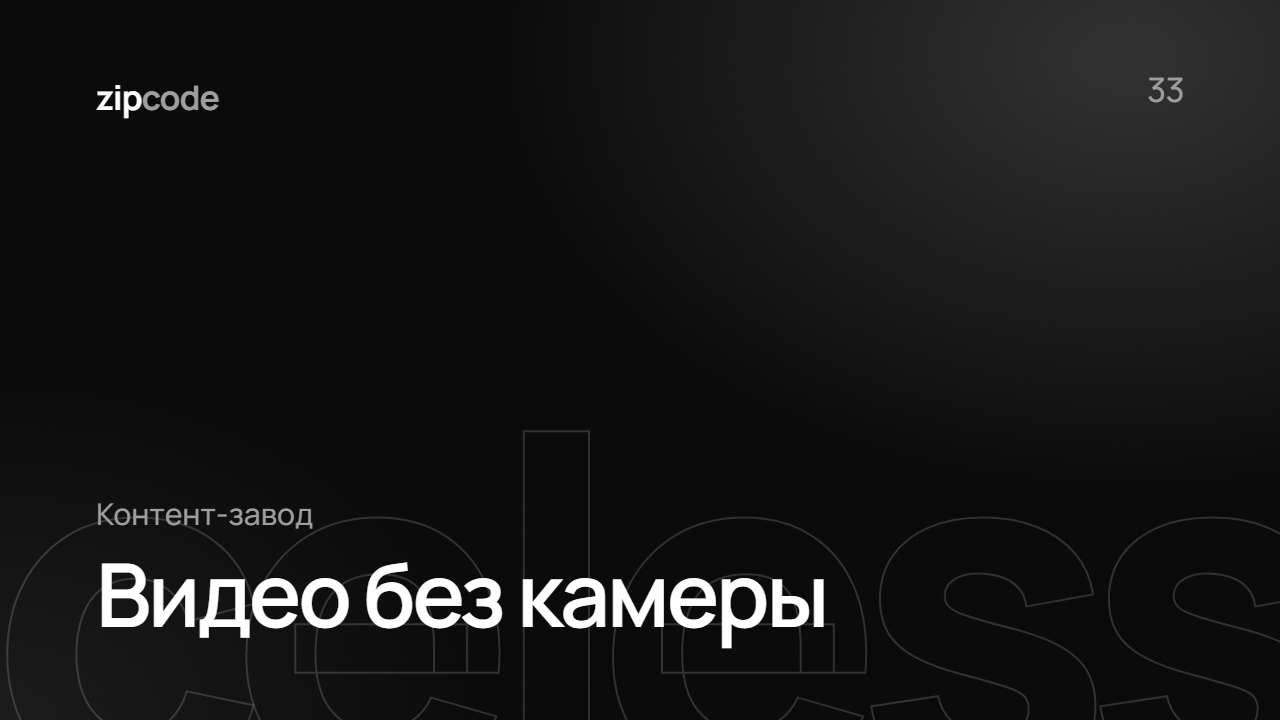
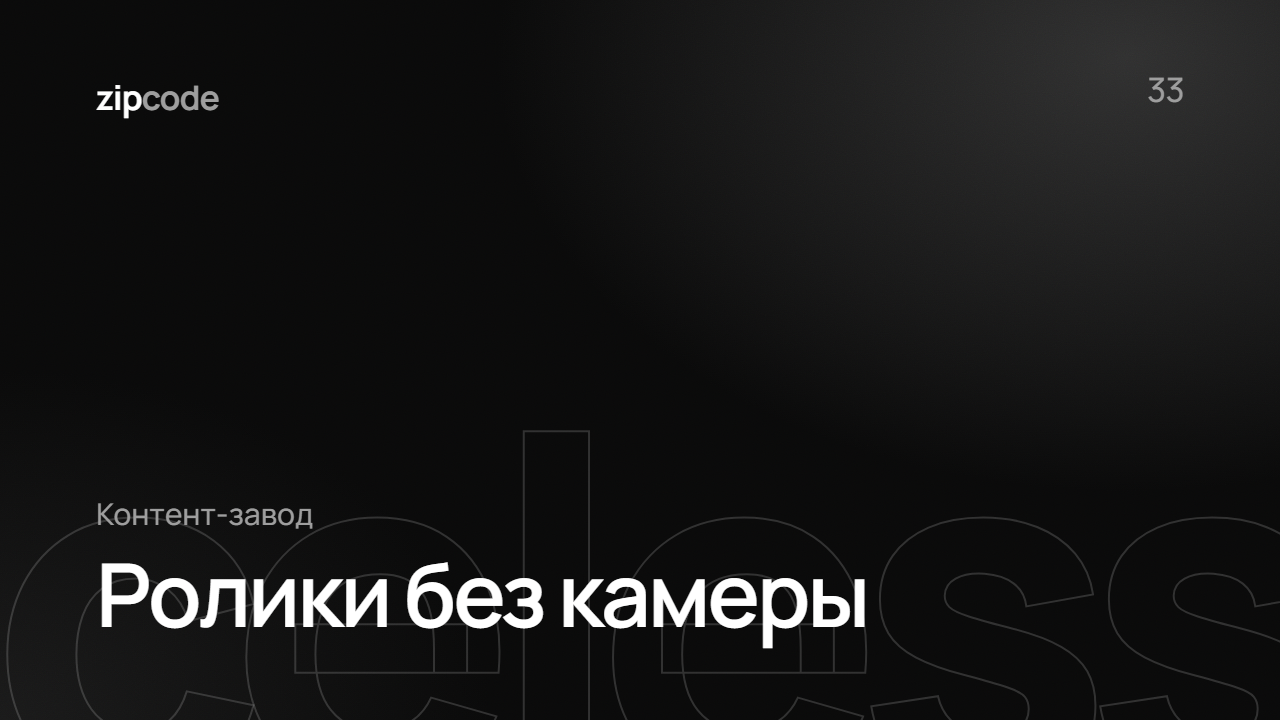
Уроки в zipcode club: ссылки на посты, номера 1.1–4.3, новые шапки
Бот публикует и правит посты клуба через закрытый адрес /admin/tg (ключ в секретах).

Changed region(s): [[0.0625, 0.7639, 0.6875, 0.9167]]

diff --git a/docs/config.js b/docs/config.js
@@ -14,23 +14,23 @@ window.ZIP_CONFIG = {
   period: "в месяц",
   // Ссылки на посты с платными уроками в закрытом канале: id урока -> t.me/c/.../...
   paidPosts: {
-    "11-api": "",
-    "12-mcp": "",
-    "13-skills": "",
-    "14-connectors": "",
-    "15-setup-claude": "",
-    "21-design": "",
-    "22-motion": "",
-    "23-mobile": "",
-    "24-ai-media": "",
-    "31-ideas": "",
-    "32-script": "",
-    "33-visuals": "",
-    "34-edit-publish": "",
-    "25-first-client": "",
-    "26-deal": "",
-    "41-agents": "",
-    "42-telegram-bot": "",
-    "43-automation": "",
+    "11-api": "https://t.me/c/4330177248/4",
+    "12-mcp": "https://t.me/c/4330177248/8",
+    "13-skills": "https://t.me/c/4330177248/11",
+    "14-connectors": "https://t.me/c/4330177248/14",
+    "15-setup-claude": "https://t.me/c/4330177248/16",
+    "21-design": "https://t.me/c/4330177248/19",
+    "22-motion": "https://t.me/c/4330177248/22",
+    "23-mobile": "https://t.me/c/4330177248/25",
+    "24-ai-media": "https://t.me/c/4330177248/27",
+    "31-ideas": "https://t.me/c/4330177248/36",
+    "32-script": "https://t.me/c/4330177248/39",
+    "33-visuals": "https://t.me/c/4330177248/41",
+    "34-edit-publish": "https://t.me/c/4330177248/44",
+    "25-first-client": "https://t.me/c/4330177248/30",
+    "26-deal": "https://t.me/c/4330177248/33",
+    "41-agents": "https://t.me/c/4330177248/47",
+    "42-telegram-bot": "https://t.me/c/4330177248/49",
+    "43-automation": "https://t.me/c/4330177248/51",
   },
 };

diff --git a/bot/worker.js b/bot/worker.js
@@ -120,6 +120,20 @@ export default {
       return json({ url: `https://t.me/${env.PAY_USERNAME}?text=${encodeURIComponent(text)}` });
     }
 
+    // Публикация уроков в zipcode club с компьютера Артёма: POST /admin/tg (multipart, поле key = ADMIN_KEY).
+    // Пишет только в закрытый канал и только разрешёнными методами — тексты уроков в код не попадают
+    if (url.pathname === "/admin/tg" && request.method === "POST") {
+      const form = await request.formData();
+      if (!env.ADMIN_KEY || form.get("key") !== env.ADMIN_KEY) return new Response("Нет доступа", { status: 403 });
+      const method = form.get("method");
+      if (!["sendAnimation", "sendMessage", "editMessageText", "editMessageCaption", "editMessageMedia", "pinChatMessage"].includes(method)) return new Response("Метод запрещён", { status: 400 });
+      form.delete("key");
+      form.delete("method");
+      form.set("chat_id", env.CLUB_CHAT_ID);
+      const res = await fetch(`https://api.telegram.org/bot${env.BOT_TOKEN}/${method}`, { method: "POST", body: form });
+      return Response.json(await res.json());
+    }
+
     // Проверка, что бот видит закрытый канал: /club?key=WEBHOOK_SECRET
     if (url.pathname === "/club") {
       if (url.searchParams.get("key") !== env.WEBHOOK_SECRET) return new Response("Нет доступа", { status: 403 });

diff --git a/docs/app.js b/docs/app.js
@@ -188,7 +188,7 @@
   function lessonRow(l, locked) {
     const icon = isDone(l.id) ? ICON.done : locked ? ICON.lock : ICON.open;
     return `<li><button class="lesson ${isDone(l.id) ? "done" : ""}" data-${locked ? "paid" : "lesson"}="${l.id}">
-      <span><span class="lesson__name">${esc(l.title)}</span><span class="lesson__meta">${l.minutes} мин</span></span>
+      <span><span class="lesson__name">${esc(l.title)}</span><span class="lesson__meta">${locked ? `Урок ${l.id[0]}.${l.id[1]}, ` : ""}${l.minutes} мин</span></span>
       <span class="lesson__state">${icon}</span>
     </button></li>`;
   }

diff --git a/docs/index.html b/docs/index.html
@@ -40,8 +40,8 @@
     <div class="sheet__panel" role="dialog" aria-modal="true" aria-labelledby="sheet-title"></div>
   </div>
 
-  <script src="config.js?v=ffde1e18"></script>
+  <script src="config.js?v=c6654c35"></script>
   <script src="data.js?v=2b56d7bb"></script>
-  <script src="app.js?v=f6dd0414"></script>
+  <script src="app.js?v=5d0128df"></script>
 </body>
 </html>

diff --git a/design/make_covers.py b/design/make_covers.py
@@ -17,22 +17,25 @@ COVERS = [
     ("01-day-1", "1", "01", "Свой адрес в интернете, вечер 1", "Мастерская и первая страница"),
     ("02-day-2", "2", "02", "Свой адрес в интернете, вечер 2", "Сайт о тебе"),
     ("03-day-3", "3", "03", "Свой адрес в интернете, вечер 3", "Ссылка, QR-код и первые отзывы"),
-    ("lesson-01", "01", "design", "Урок 1 для участников", "Дизайн с характером"),
-    ("lesson-02", "02", "motion", "Урок 2 для участников", "Живой сайт: анимации"),
-    ("lesson-03", "03", "375px", "Урок 3 для участников", "Телефон — главный экран"),
-    ("lesson-04", "04", "claude", "Урок 4 для участников", "Настрой Claude под себя"),
-    ("lesson-05", "05", "media", "Урок 5 для участников", "Фото и видео через ИИ"),
-    ("lesson-06", "06", "client", "Урок 6 для участников", "Первый клиент"),
-    ("lesson-07", "07", "deal", "Урок 7 для участников", "Цена, предоплата, сдача"),
-    ("lesson-31", "31", "ideas", "Контент-завод", "Идеи, которые залетают"),
-    ("lesson-32", "32", "hook", "Контент-завод", "Хук за 2 секунды"),
-    ("lesson-33", "33", "faceless", "Контент-завод", "Видео без камеры"),
-    ("lesson-34", "34", "edit", "Контент-завод", "Монтаж через Claude и цифры"),
-    ("lesson-25", "25", "client", "Сайты", "Первый клиент"),
-    ("lesson-26", "26", "deal", "Сайты", "Сделка и первые деньги"),
-    ("lesson-41", "41", "agent", "ИИ-агенты", "Сотрудник, который не спит"),
-    ("lesson-42", "42", "bot", "ИИ-агенты", "Telegram-бот с ИИ за вечер"),
-    ("lesson-43", "43", "cron", "ИИ-агенты", "Автоматизации и как их продать"),
+    # Уроки клуба: имя файла, номер, слово-призрак, направление, короткий заголовок
+    ("lesson-11", "1.1", "api", "ИИ на пальцах", "API за 5 минут"),
+    ("lesson-12", "1.2", "mcp", "ИИ на пальцах", "MCP за 5 минут"),
+    ("lesson-13", "1.3", "skills", "ИИ на пальцах", "Научи ИИ чему угодно"),
+    ("lesson-14", "1.4", "inbox", "ИИ на пальцах", "ИИ разбирает твою рутину"),
+    ("lesson-15", "1.5", "claude", "ИИ на пальцах", "Claude — твой сотрудник"),
+    ("lesson-21", "2.1", "design", "Сайты", "Сайт, который не выдаёт ИИ"),
+    ("lesson-22", "2.2", "motion", "Сайты", "Сайт оживает при прокрутке"),
+    ("lesson-23", "2.3", "375px", "Сайты", "«Вау» с телефона"),
+    ("lesson-24", "2.4", "media", "Сайты", "Фото и видео, которых нет"),
+    ("lesson-25", "2.5", "client", "Сайты", "Первый клиент"),
+    ("lesson-26", "2.6", "deal", "Сайты", "Твои первые деньги"),
+    ("lesson-31", "3.1", "ideas", "Контент-завод", "Идеи, которые уже залетели"),
+    ("lesson-32", "3.2", "hook", "Контент-завод", "Хук за 2 секунды"),
+    ("lesson-33", "3.3", "faceless", "Контент-завод", "Ролики без камеры"),
+    ("lesson-34", "3.4", "edit", "Контент-завод", "Claude монтирует, пока ты спишь"),
+    ("lesson-41", "4.1", "agent", "ИИ-агенты", "ИИ-сотрудник без зарплаты"),
+    ("lesson-42", "4.2", "bot", "ИИ-агенты", "Бот с ИИ за вечер"),
+    ("lesson-43", "4.3", "cron", "ИИ-агенты", "Деньги каждый месяц"),
     ("welcome", "", "zip", "Вайбкодинг с нуля, без знания кода", "ИИ работает. Ты зарабатываешь"),
     # Посты канала
     ("post-01", "", "vibe", "Коротко", "Что такое вайбкодинг"),
